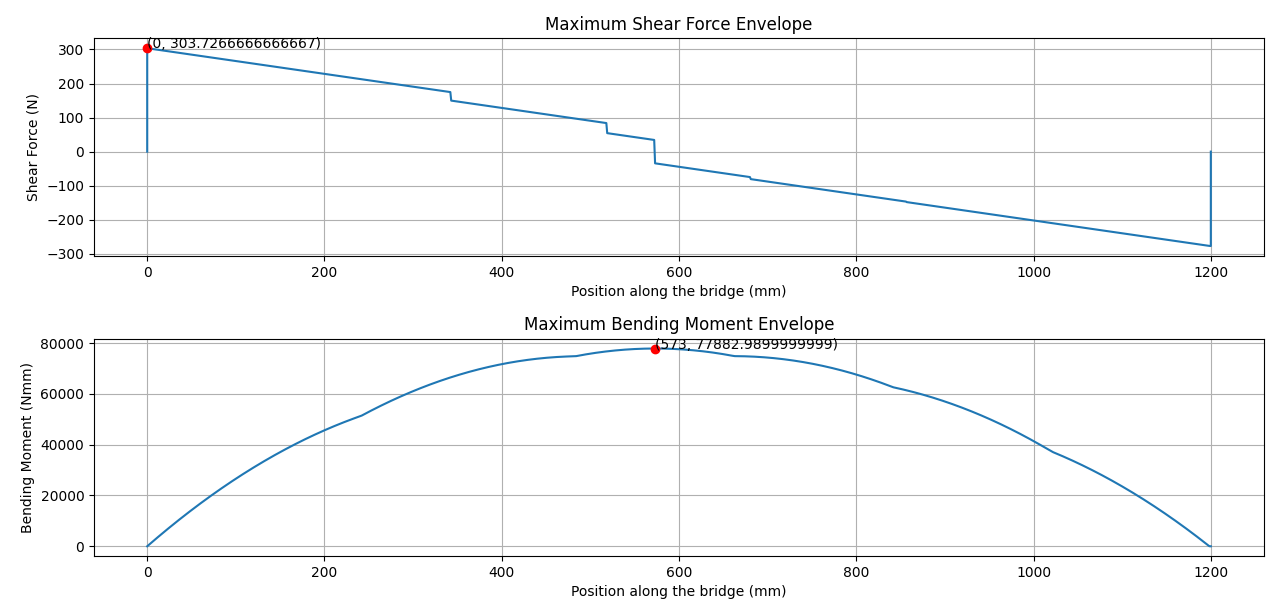
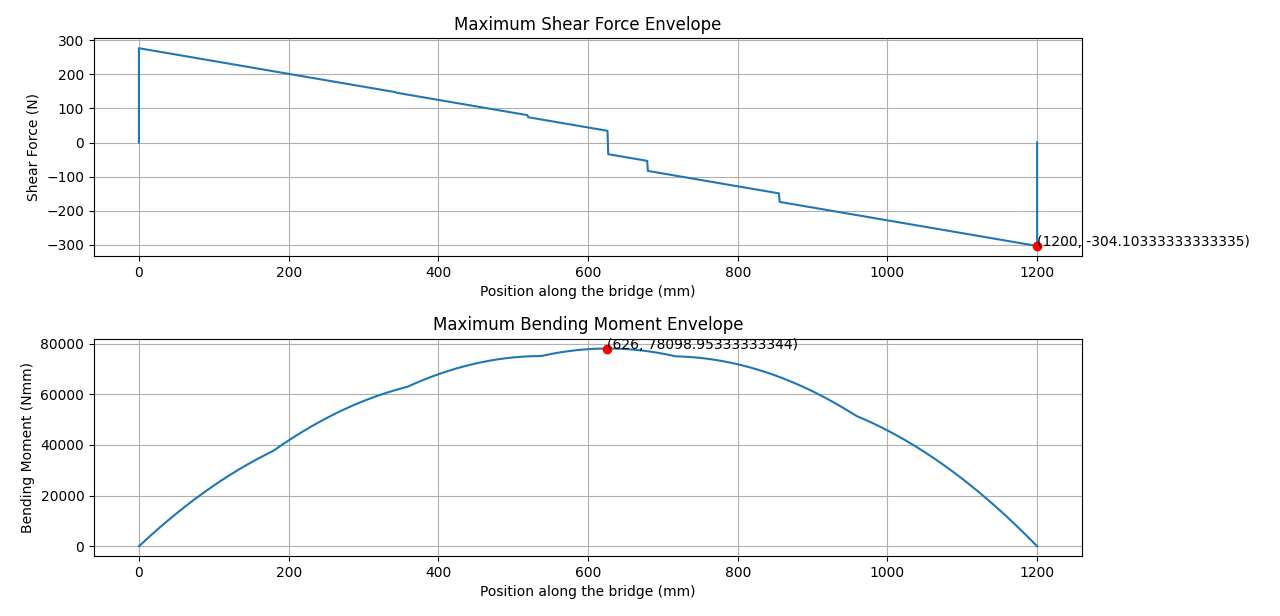
Update Diaphram

diff --git a/final.py b/final.py
@@ -63,7 +63,7 @@ for train_position in range(-52,293):
     for i in range(1201):
         if abs(shear_force[i])>abs(max_shear_force[i]):
             max_shear_force[i] = shear_force[i]
-print(max(max_bending_moment),max(max_shear_force))
+print(f"Max Bending Moment{max(max_bending_moment)}",f"Max Shear Force:{max(max_shear_force)}" )
 def local_buckling_stress(b, t, boundary_condition):
     k=0
     if boundary_condition == 'type 1':
@@ -74,7 +74,9 @@ def local_buckling_stress(b, t, boundary_condition):
         k = 6
     sigma_cr = (k * (math.pi ** 2) * young) / (12 * (1 - poisson ** 2)) * ((t / b) ** 2)
     return sigma_cr
-
+def shear_buckling_stress(a, h):
+    tao_cr = (5* (math.pi**2) * young) / (12 * (1 - poisson ** 2))*((1.27/h)**2+(1.27/a)**2)
+    return tao_cr
 def check_failure(component,pos):
     rectangle=cross_section(component,pos)
     flexural_stress_failure(rectangle,pos)
@@ -115,8 +117,8 @@ def first_moment_of_area(rectangles, h):
                 new_height=h-y
                 first_moment += width*new_height * (centroid_y-(y+new_height / 2))
     return first_moment
-def shear_stress_failure(rectangles,crit_pos,V):
-    global FOS_shear_plate,FOS_glue
+def shear_stress_failure(rectangles,crit_pos,V,pos):
+    global FOS_shear_plate,FOS_glue, FOS_buck_4
     V=abs(V)
     for y in crit_pos:
         Q=first_moment_of_area(rectangles,y)
@@ -135,6 +137,11 @@ def shear_stress_failure(rectangles,crit_pos,V):
     I=second_moment_of_area(rectangles)
     shear=V*Q/(I*b)
     FOS_shear_plate=min(FOS_shear_plate,shear_strength_matboard/shear)
+    for i in range(len(tao_shear_buck)):
+        if pos<=diaphram_pos[i+1] and pos>=diaphram_pos[i]:
+            tao_cr=tao_shear_buck[i]
+            break
+    FOS_buck_4=min(FOS_buck_4,tao_cr/shear)
     #if shear>shear_strength_matboard:
     #    print(f"Beam at {y}mm in shear fail at centroid")
 
@@ -148,11 +155,11 @@ def flexural_stress_failure(rectangles,pos):
     stress_at_bottom=abs(max_bending_moment[pos]*(height)/I)
     #print(f"Flexural Stress at the top: {stress_at_top}MPa",f"Flexural Stress at the bottom: {stress_at_bottom}MPa")
     try:
-        FOS_tension=min(FOS_tension,compressive_strength/stress_at_top)
+        FOS_tension=min(FOS_tension,tensile_strength/stress_at_bottom)
     except:
         FOS_tension=FOS_tension
     try:
-        FOS_compression=min(FOS_compression,tensile_strength/stress_at_bottom)
+        FOS_compression=min(FOS_compression,compressive_strength/stress_at_top)
     except:
         FOS_compression=FOS_compression
     try:
@@ -238,11 +245,16 @@ def check_failure(component):
         rectangle=cross_section(component,pos)
         flexural_stress_failure(rectangle,pos)
         crit_pos=find_glued_joint(rectangle) #for glue
-        shear_stress_failure(rectangle,crit_pos,max_shear_force[pos])
+        shear_stress_failure(rectangle,crit_pos,max_shear_force[pos],pos)
 #x_pos,y_pos,width,height,starting pos along the bridge, ending pos along the bridge
 component = [(10, 0, 80, 1.27,0,1200), (10, 1.27, 1.27, 75-1.27,0,1200), 
                 (90-1.27, 1.27, 1.27, 75-1.27,0,1200),(0,75,100,1.27,0,1200),
                 (10+1.27,75-1.27,5,1.27,0,1200),(90-1.27-5,75-1.27,5,1.27,0,1200)]
+
+diaphram_pos=[0,400,800,1200]
+tao_shear_buck=[]
+for i in range(len(diaphram_pos)-1):
+    tao_shear_buck.append(shear_buckling_stress(diaphram_pos[i+1]-diaphram_pos[i],75-1.27))
 cy=centroid_of_rectangles(cross_section(component,0))
 strength_buck_1=local_buckling_stress(77.46,1.27,'type 1')
 strength_buck_2=local_buckling_stress(10,1.27,'type 2')
@@ -255,9 +267,11 @@ print(f"FOS for shear at plate: {FOS_shear_plate}")
 print(f"FOS for shear at glue: {FOS_glue}")
 print(f"Strength of buckling type 1: {strength_buck_1}MPa",
           f"Strength of buckling type 2: {strength_buck_2}MPa",
-          f"Strength of buckling type 3: {strength_buck_3}MPa")
+          f"Strength of buckling type 3: {strength_buck_3}MPa",
+          f"Strength of buckling type 4: {tao_shear_buck}MPa")
 print(f"FOS for buckling type 1: {FOS_buck_1}")
 print(f"FOS for buckling type 2: {FOS_buck_2}")
 print(f"FOS for buckling type 3: {FOS_buck_3}")
+print(f"FOS for buckling type 4: {FOS_buck_4}")
 print(f"First Moment of Area at centroid: {first_moment_of_area(cross_section(component,0),cy)}")
 print(f"First Moment of Area at 75mm: {first_moment_of_area(cross_section(component,0),75)}")

diff --git a/envelope.py b/envelope.py
@@ -10,7 +10,7 @@ shear_strength_cemant = 2
 x_train = [52, 228, 392, 568, 732, 908]
 x_start = 0
 x_end = 1200
-p_train = [400/6]*6
+p_train = [135 / 2, 135 / 2, 135 / 2, 135 / 2,182 / 2, 182 / 2]
 
 # Function to calculate shear force and bending moment at a given train position
 def calculate_shear_force_and_bending_moment(train_position):
